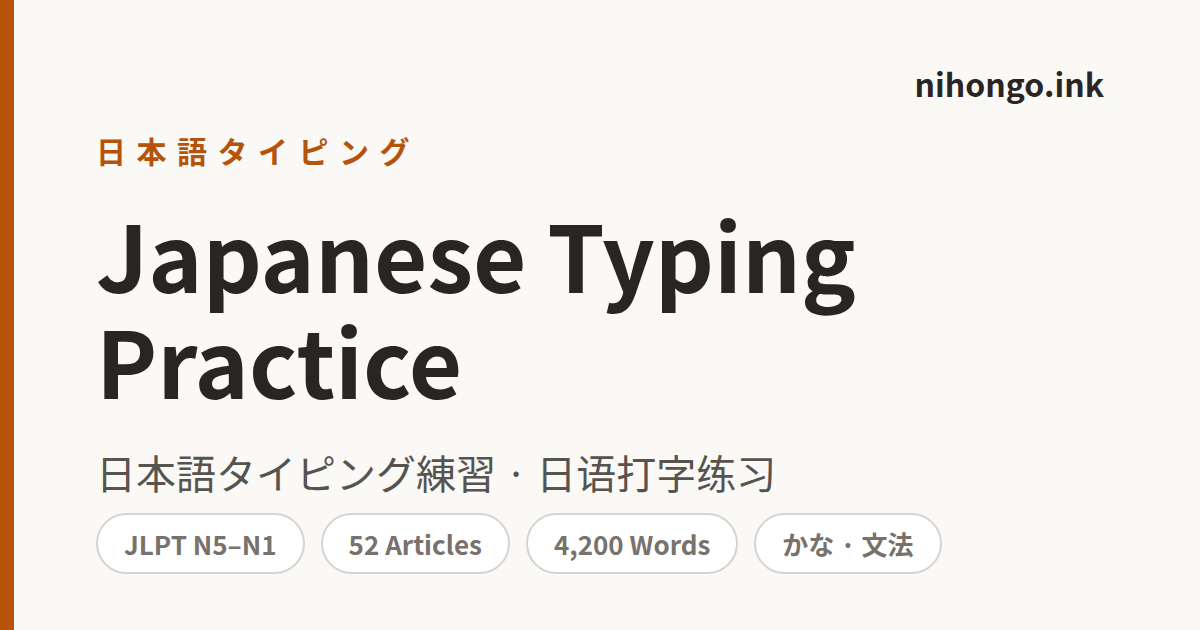
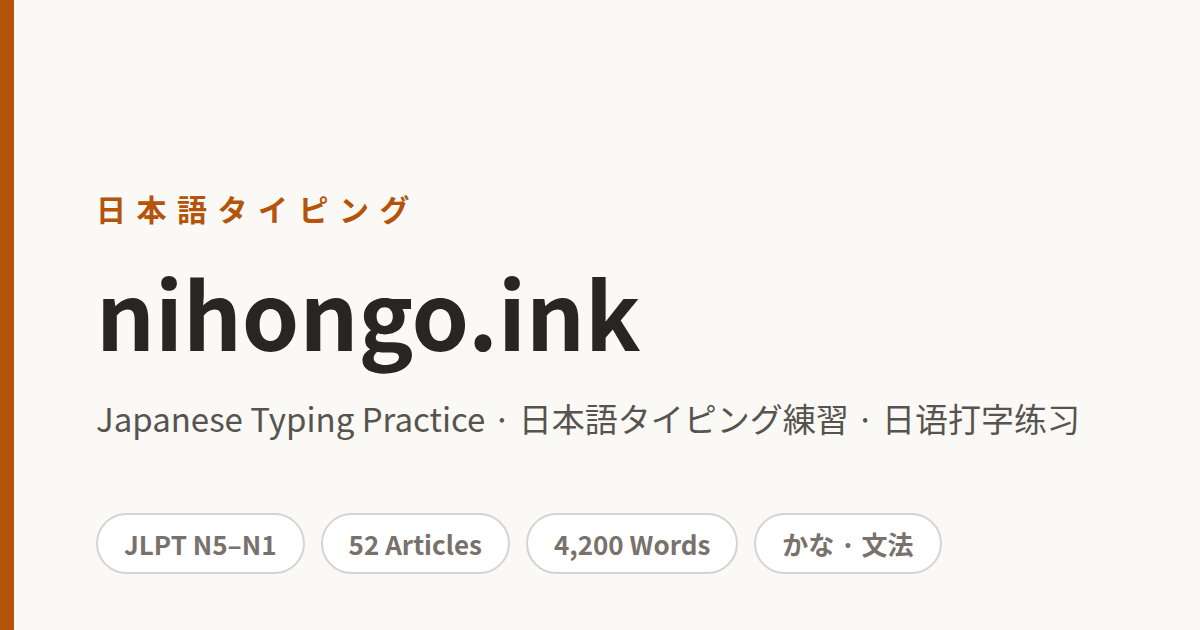
OG card: make nihongo.ink the headline
Claude-Session: https://claude.ai/code/session_01MXz5N2Fk1vJaptBrk8FQCp

diff --git a/scripts/og-card.html b/scripts/og-card.html
@@ -16,7 +16,7 @@
   .accent { position: absolute; left: 0; top: 0; bottom: 0; width: 14px; background: #b45309; }
   .kicker { font-size: 30px; letter-spacing: 0.35em; color: #b45309; font-weight: 700; margin-bottom: 28px; }
   h1 { font-size: 92px; font-weight: 900; color: #292524; line-height: 1.15; margin-bottom: 30px; }
-  .sub { font-size: 40px; color: #57534e; line-height: 1.5; }
+  .sub { font-size: 33px; color: #57534e; line-height: 1.5; white-space: nowrap; }
   .badges { position: absolute; bottom: 56px; left: 96px; display: flex; gap: 16px; }
   .badge { font-size: 26px; font-weight: 700; color: #78716c; border: 2.5px solid #d6d3d1; border-radius: 999px; padding: 10px 26px; background: #fff; }
   .brand { position: absolute; top: 60px; right: 96px; font-size: 32px; font-weight: 800; color: #292524; }
@@ -24,14 +24,13 @@
 <body>
   <div class="accent"></div>
   <div class="kicker">日本語タイピング</div>
-  <h1>Japanese Typing<br>Practice</h1>
-  <div class="sub">日本語タイピング練習 · 日语打字练习</div>
+  <h1>nihongo.ink</h1>
+  <div class="sub">Japanese Typing Practice · 日本語タイピング練習 · 日语打字练习</div>
   <div class="badges">
     <span class="badge">JLPT N5–N1</span>
     <span class="badge">52 Articles</span>
     <span class="badge">4,200 Words</span>
     <span class="badge">かな · 文法</span>
   </div>
-  <div class="brand">nihongo.ink</div>
 </body>
 </html>
